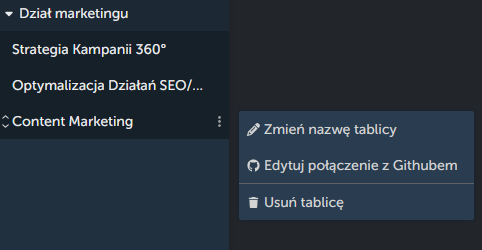
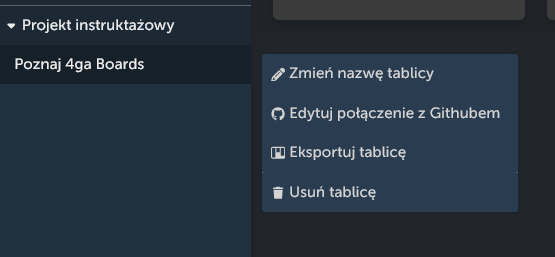
feat: import export page

diff --git a/sidebars.js b/sidebars.js
@@ -5,7 +5,8 @@ export default {
       label: 'Getting Started',
       items: [
         'intro',
-        'account'
+        'account',
+        'import-export'
       ],
       link: {
         type: 'generated-index',

diff --git a/i18n/pl/docusaurus-plugin-content-docs/current/import-export.md b/i18n/pl/docusaurus-plugin-content-docs/current/import-export.md
@@ -1,0 +1,46 @@
+---
+sidebar_label: 'Import/Eksport'
+---
+
+# Import/Eksport
+
+## Import z Trello
+
+Przechodzisz z innego oprogramowania? Obecnie 4ga Boards wspiera migrację z Trello. Aby to zrobić, wyeksportuj swoją tablicę Trello w formacie `.json` (jedyny dostępny w darmowej wersji Trello) i wykonaj następujące kroki:
+1. Utwórz nową tablicę i wybierz opcję „Importuj”:
+
+![Okno tworzenia tablicy](/img/boardcreate_pl.png)
+
+2. Wybierz odpowiednią opcję importu:
+
+![Okno importu tablicy](/img/importboard_pl.png)
+
+3. W menedżerze plików wybierz odpowiedni plik `.json`, nazwij swoją nową tablicę i zdecyduj, w którym projekcie ma zostać utworzona. Projekt możesz na razie traktować jako coś na wzór „workspace” z Trello – kontener, który przechowuje tablice. Więcej o projektach znajdziesz (tutaj)[./project].
+
+ ![Opcje importu z Trello](/img/importboardtrello_pl.png)
+
+I gotowe! Masz w pełni funkcjonalną tablicę – również z etykietami!
+
+ ## Import z 4ga Boards
+
+Zmieniasz instancję lub kopiujesz tablicę od innego użytkownika? Dzięki funkcji importu w 4ga Boards szybko skonfigurujesz swoje środowisko pracy. Upewnij się, że masz odpowiedni plik eksportu z 4ga Boards (powinien mieć format `.tgz`) i wykonaj następujące kroki:
+
+ 1. Utwórz nową tablicę i wybierz opcję „Importuj”:
+
+![Okno tworzenia tablicy](/img/boardcreate_pl.png)
+
+2. Wybierz odpowiednią opcję importu:
+
+![Okno importu tablicy](/img/importboard_pl.png)
+
+3. W menedżerze plików wybierz odpowiedni plik `.tgz`, nazwij swoją nową tablicę i zdecyduj, w którym projekcie ma zostać utworzona. Tutaj możesz również zaznaczyć dwie opcje dotyczące użytkowników:
+   - `Dodaj moderatorów projektów`: Jeśli użytkownik nie jest obecnie moderatorem projektu w tej instancji, ale pełnił tę rolę w wersji eksportowanej, zostanie automatycznie przypisany jako moderator w projekcie, w którym utworzono tablicę.
+   - `Stwórz konta dla nieistniejących użytkowników`: Jeśli użytkownik nie istnieje w bieżącej instancji, ale był dodany do tablicy w wersji eksportowanej, jego konto zostanie utworzone w bieżącej instancji.
+
+ ![Opcje importu z 4ga Boards](/img/importboard4ga_pl.png)
+
+ ## Eksport
+
+Eksportowanie w 4ga Boards jest szybkie i proste. Wystarczy otworzyć menu kontekstowe tablicy, którą chcesz wyeksportować, i wybrać opcję Eksportuj tablicę. Zapisz wynikowy plik `.tgz` w wybranej lokalizacji.
+
+![Menu kontekstowe tablicy](/img/boardmenu_pl.png)

diff --git a/docs/import-export.md b/docs/import-export.md
@@ -1,0 +1,47 @@
+---
+sidebar_label: 'Import/Export'
+---
+
+# Import/Export
+
+## Import from Trello
+
+Are you migrating from other software? Currently 4ga Boards is supporting migration from Trello. To do this, export your Trello board in .json format (the only one included in the free version of Trello) and do the following:
+
+1. Create new board and select "Import":
+
+![Board creation popup window](/img/boardcreate_en.png)
+
+2. Select appriopriate option for import:
+
+![Board import popup window](/img/importboard_en.png)
+
+3. In the file manager select the appriopriate `.json` file, name your new board and choose in which project it should be created. Think of the project for now as kind of Trello's workspaces - a container that holds boards. More on project (here)[./project].
+
+ ![Trello import options](/img/importboardtrello_en.png)
+
+ And done! Now you have a fully functioning board - also with labels!
+
+ ## Import from 4ga Boards
+
+ Changing instances or copying board from another user? With the 4ga Boards import you can quickly setup your workspace. Be sure you have an appriopriate 4ga Boards export file (it should have a `.tgz` format) and do the following:
+
+ 1. Create new board and select "Import":
+
+![Board creation popup window](/img/boardcreate_en.png)
+
+2. Select appriopriate option for import:
+
+![Board import popup window](/img/importboard_en.png)
+
+3. In the file manager select the appriopriate .tgz file, name your new board and choose in which project it should be created. Here you can also check two options regarding users:
+   - `Add project managers`: If a user is not currently a project manager in this instance but held that role in the exported version, they will be automatically assigned as a project manager for the project where the board is created.
+   - `Create accounts for non-existing users`: If a user does not exist in the current instance but was added to the board in the exported version, their account will be created in the current instance.
+
+ ![4ga Boards import options](/img/importboard4ga_en.png)
+
+ ## Export
+
+Exporting in 4ga Boards is quick and easy. Simply open the context menu of the board you wish to export and select the `Export Board` option. Save the resulting `.tgz` file to your preferred location.  
+
+![Board context menu](/img/boardmenu_en.png)

diff --git a/docs/board.md b/docs/board.md
@@ -10,7 +10,7 @@ At first you will see that your project contains no boards - to create them, sim
 
 If you are joining to an existing project, here is how it should look like:
 
-![Main view showing the getting started guide](/img/mainviewgettingstarted_en.png)
+![Main view showing the getting started board](/img/mainviewgettingstarted_en.png)
 
 Notice that selected board is highlighted in the sidebar view (in this example it is "Important Project" Board inside "4ga Boards" project).
 
@@ -20,7 +20,7 @@ There can be more than one board per project - simply click the `+Add Board` but
 
 ![Buttons placement for creating a new board](/img/boardaddbutton_en.png)
 
-This will open up a pop-up window in which you can name your board, prefill the lists in the board with templates or import your data from Trello (supporting .json file format).
+This will open up a pop-up window in which you can name your board, prefill the lists in the board with templates or import your data from 4ga Boards (in .csv file format) or from Trello (supporting .json file format).
 
 ![Board creation popup window](/img/boardcreate_en.png)
 
@@ -35,7 +35,7 @@ And kanban:
 
 ## Board additional options
 
-If you want to edit or delete your board, open the ellipsis menu in the sidebar (they will show after you hover over the board name). You can also change the order of the board within the project after clicking and holding the two arrows button that will appear on the left of the board name.
+If you want to edit or delete your board, open the ellipsis menu in the sidebar (they will show after you hover over the board name). You can also change the order of the board within the project after clicking and holding the two arrows button that will appear on the left of the board name. If you wish, you can also export your board in .csv format here.
 
 ![Popup menu with board settings](/img/boardmenu_en.png)
 
@@ -47,7 +47,7 @@ Each board comes with separate settings bar, in which (going from left to right)
 4. Filter cards by labels (also create/edit the labels).
 5. Set up Github integration (WIP).
 
-![Board settings bar with different filters and options](/img/boardfilters_en.png)
+![Board settings bar](/img/boardfilters_en.png)
 
 ## Board permissions
 Each member of the board can have different permission:

diff --git a/i18n/pl/docusaurus-plugin-content-docs/current/board.md b/i18n/pl/docusaurus-plugin-content-docs/current/board.md
@@ -37,7 +37,7 @@ oraz szablon kanban:
 
 ## Dodatkowe opcje tablicy
 
-Aby edytować bądź usunąć tablicę należy najechać na nią w panelu bocznym i kliknąć w ikonkę trzech kropek. Otworzy się menu podręczne z odpowiednimi opcjami. Reorganizacja tablic w obrębie projektu jest możliwa poprzez przeciąganie strzałek znajdujących się na lewo od nazwy tablicy.
+Aby edytować bądź usunąć tablicę należy najechać na nią w panelu bocznym i kliknąć w ikonkę trzech kropek. Otworzy się menu podręczne z odpowiednimi opcjami. Tutaj możesz również eksportować swoją tablicę do pliku csv. Reorganizacja tablic w obrębie projektu jest możliwa poprzez przeciąganie strzałek znajdujących się na lewo od nazwy tablicy.
 
 ![Menu kontekstowe tablicy](/img/boardmenu_pl.png)
 

diff --git a/docs/sso.md b/docs/sso.md
@@ -6,8 +6,8 @@ sidebar_label: 'SSO'
 
 ### Google SSO
 
-Create a project on [Google Cloud Console](https://console.cloud.google.com)\
-Create OAuth 2.0 Client ID and Client Secret\
+Create a project on [Google Cloud Console](https://console.cloud.google.com).\
+Create OAuth 2.0 Client ID and Client Secret.\
 Configure 4ga Boards instance variables in the appropriate config file _(check your install method docs for details)_ - set Client ID and Client Secret to `GOOGLE_CLIENT_ID` and `GOOGLE_CLIENT_SECRET` to the values from the Google Cloud Console.
 ```yml
 GOOGLE_CLIENT_ID: googleClientId
